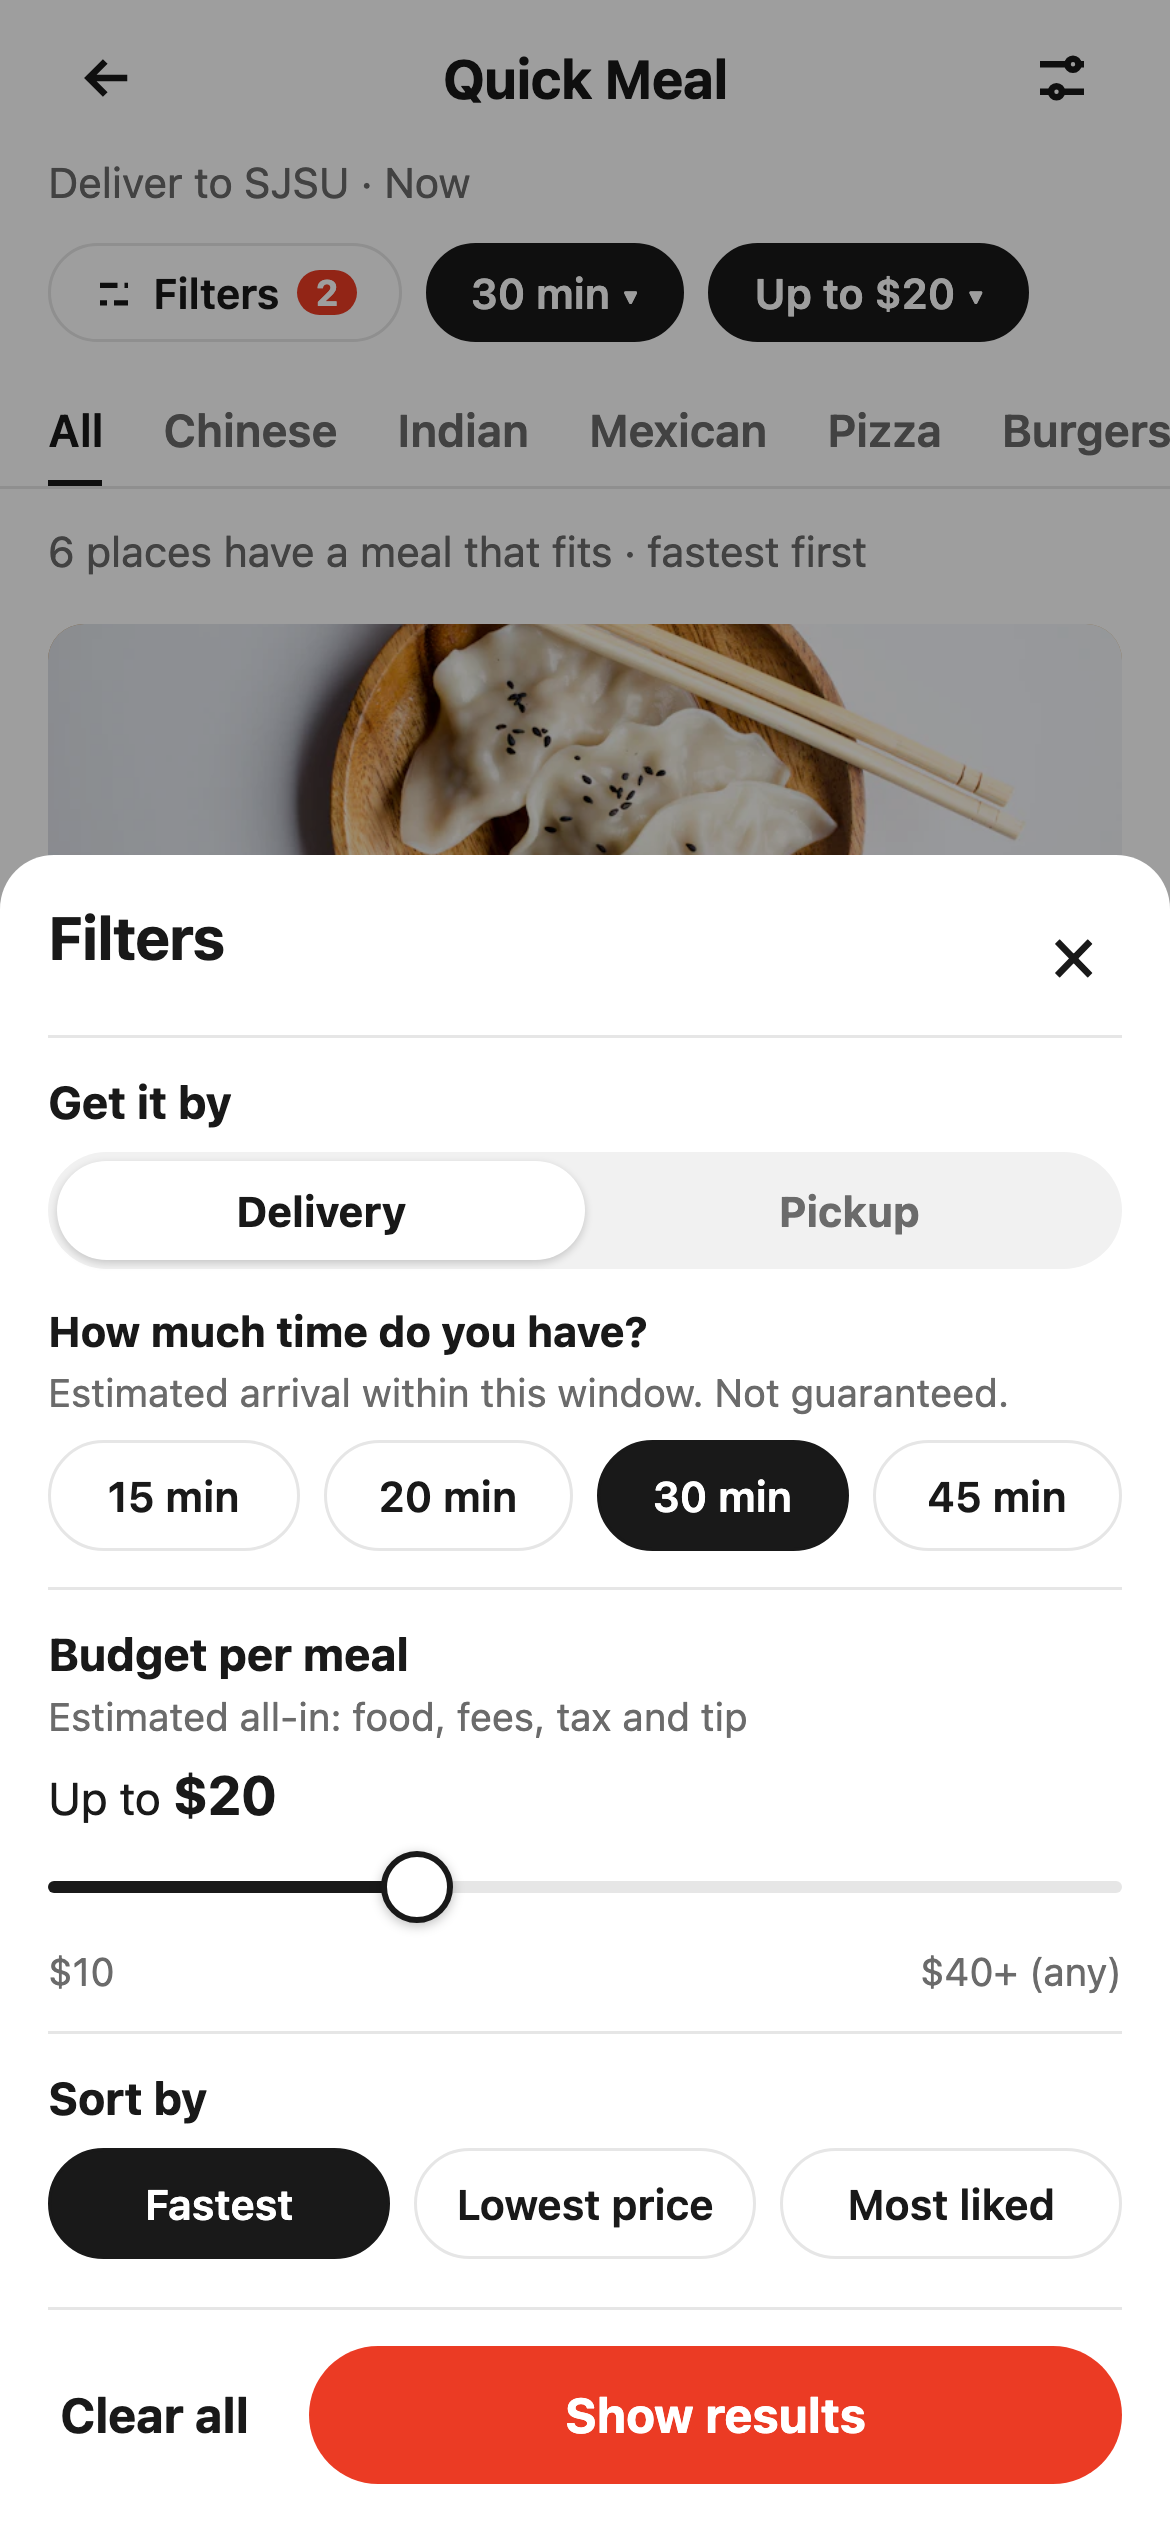
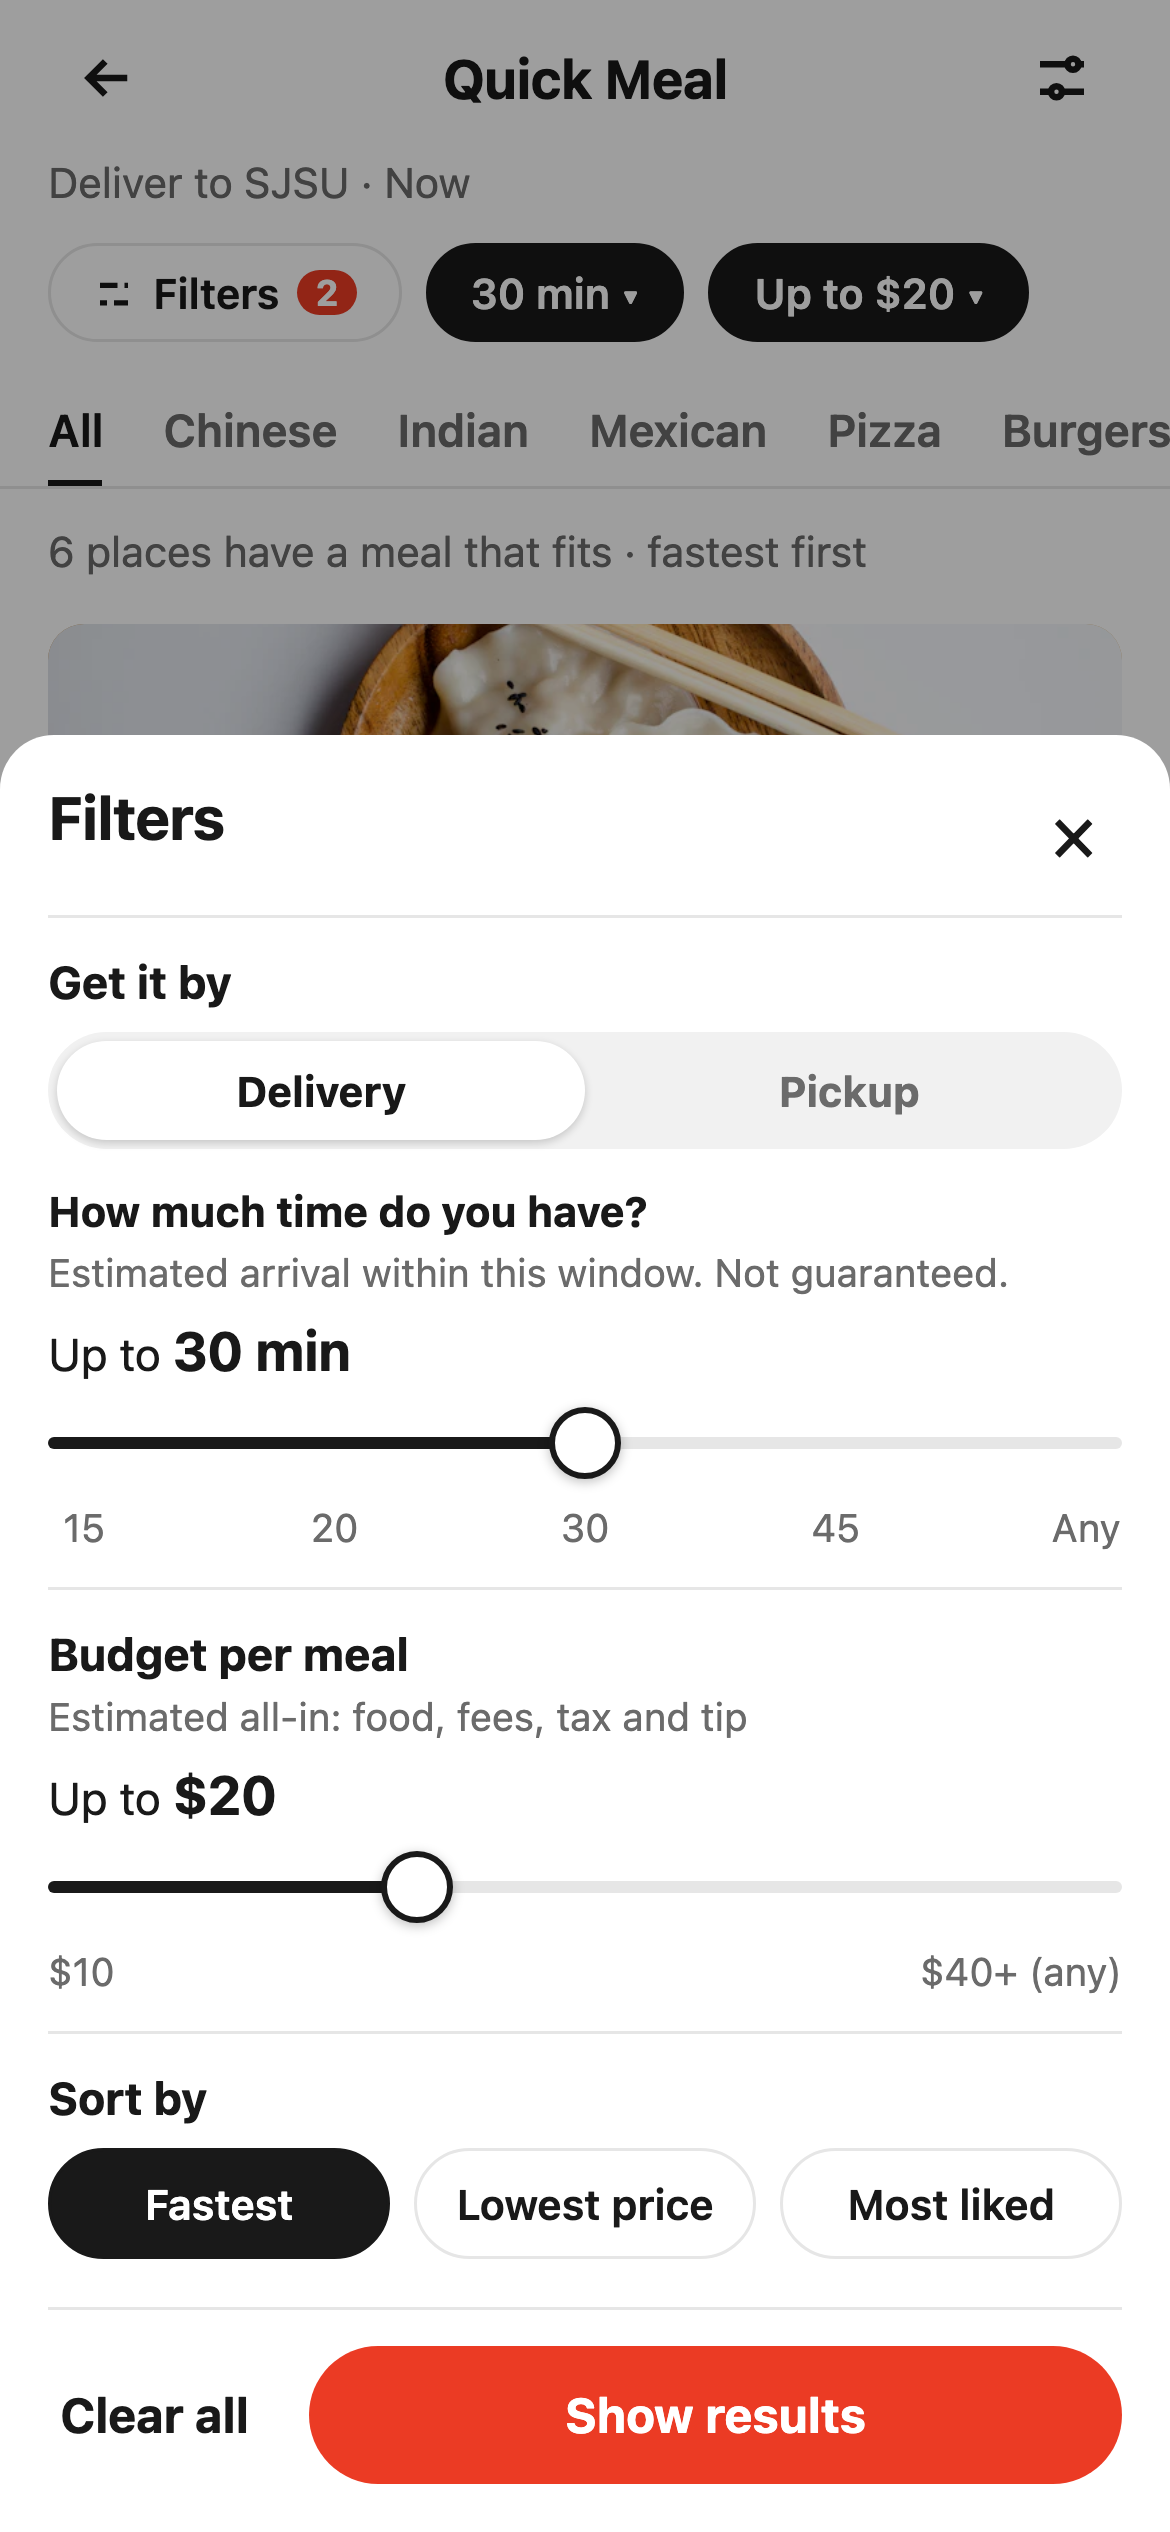
Record the validation run for the slider deploy
Deployed commit b3d6374 and its Worker version, 40 e2e tests passing on
the live URL, and shot 3 retaken with the time slider.

Changed region(s): [[0.0, 0.2808, 1.0, 0.624], [0.6769, 0.4056, 0.8, 0.4368], [0.8923, 0.3744, 0.9231, 0.4056]]

diff --git a/docs/validation.md b/docs/validation.md
@@ -2,8 +2,8 @@
 
 - Date: 2026-10-02
 - Live URL: https://quick-meal-demo.ioenv.workers.dev
-- Deployed commit: `159875f`
-- Worker version: `f98f2e53-a681-4dad-ae9c-35750cc7c2ce`
+- Deployed commit: `b3d6374`
+- Worker version: `f24cd18d-50ff-44b9-bf0e-4aff3cfa9559`
 
 Every acceptance criterion from the "Validation" section of [design.html](design.html) was run as an automated Playwright test against the live URL.
 
@@ -30,6 +30,8 @@ After the time-first change (`0cdc1bc`): 30 tests ran against the live URL and a
 After design version 35 (`95ba02f`: Delivery | Pickup, pickup prices without the delivery fee, visible sorts): 36 tests ran against the live URL and all passed, including the new AC-09. The 6 screenshot tests are skipped in a normal run; they were then run on purpose and all 6 shots were saved.
 
 After the follow-ups (`629eae8`: "Pickup near SJSU" and swapping Fastest and Nearest; `159875f`: no Nearest in Delivery, and no flash when going back from a menu): 38 tests ran against the live URL and all passed. The new back-navigation test checks for no skeleton, no loading bar and no dish name over a photo. Shots 3 and 6 were saved again.
+
+After design version 36 (`b3d6374`: time and distance set with a slider, and a "Show results" button in the Time chip's sheet): 40 tests ran against the live URL and all passed, including AC-03, AC-07 and AC-09 with the slider. Shot 3 was saved again.
 
 ## How to re-run
 
